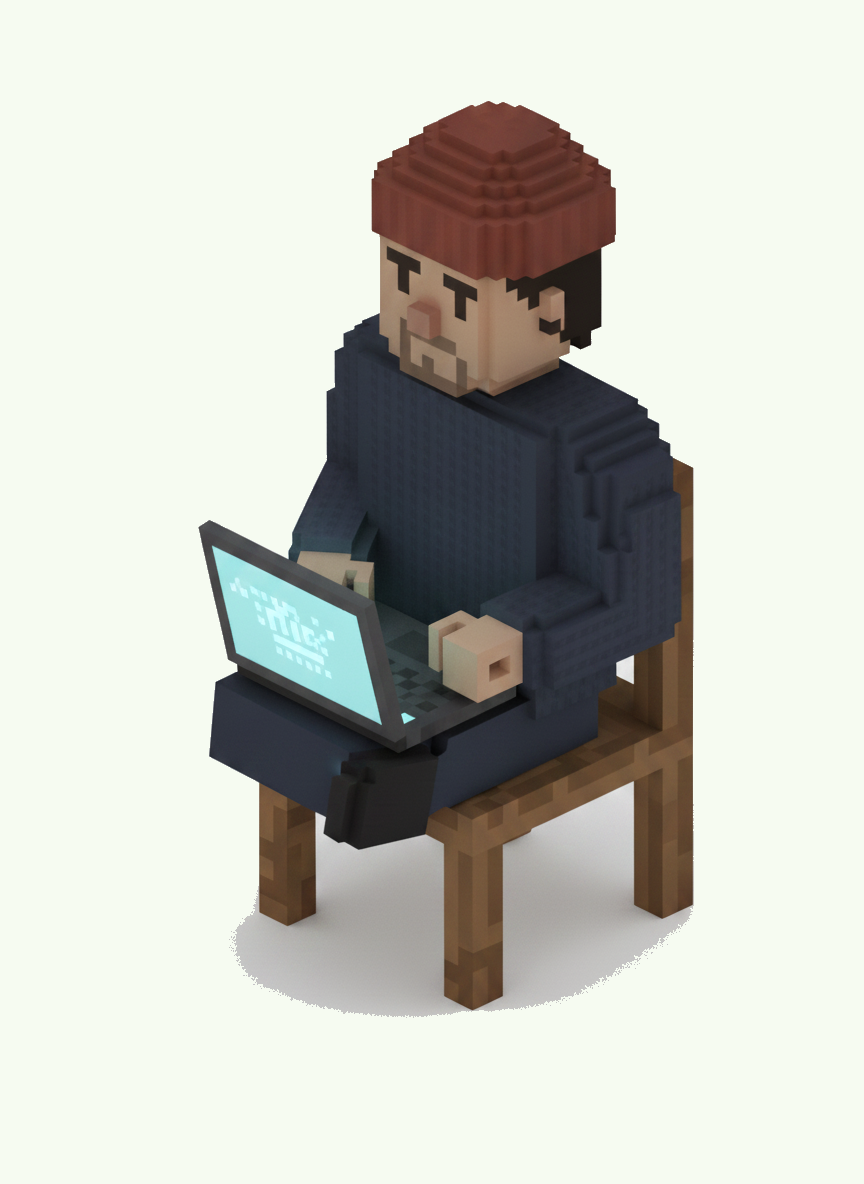
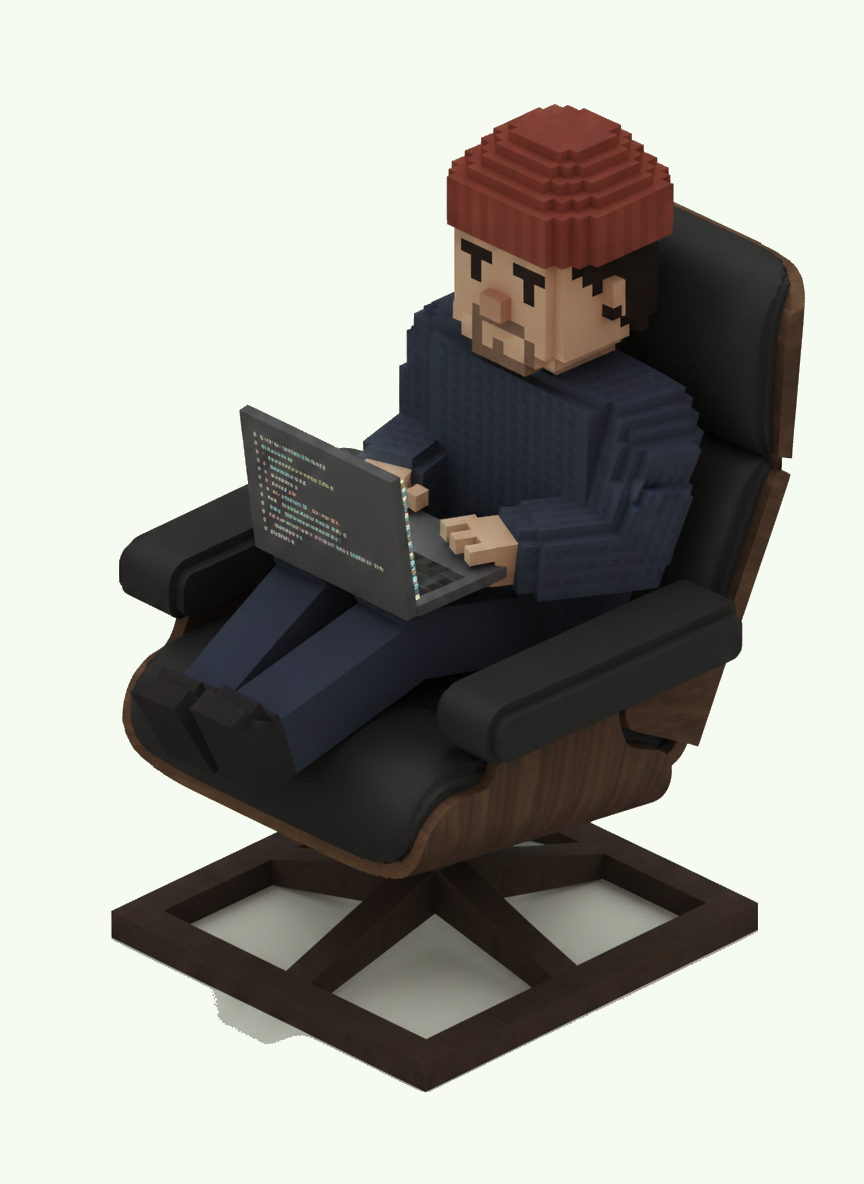
Reading chair: black leather lounge chair, legs crossed; footer merged into Now; live counters

diff --git a/index.html b/index.html
@@ -176,21 +176,22 @@
         <p>
           I'm building something new. It isn't public yet.
         </p>
+        <footer class="site-end" id="contact">
+          <ul class="footer-links">
+            <li><a href="https://github.com/dang-hai">GitHub</a></li>
+            <li><a href="https://scholar.google.de/citations?user=-BpP7hsAAAAJ">Scholar</a></li>
+            <li><a href="https://dblp.org/pid/286/8389.html">dblp</a></li>
+            <li><a href="https://x.com/dnghaiii">X</a></li>
+          </ul>
+          <p class="footer-colophon">
+            <span id="last-updated" data-updated="2026-07-07T01:00:00+02:00">Last updated July 2026</span> · Munich<br>
+            <span id="cogitating">Cogitating since 0 seconds</span>
+          </p>
+        </footer>
       </div>
       <img class="now-avatar" src="assets/img/avatar-typing.png" alt="A voxel figure of Hai sitting cross-legged on a chair, typing on a laptop" width="864" height="1184">
     </div>
   </section>
-
-  <!-- ============ CONTACT ============ -->
-  <footer class="footer" id="contact">
-    <ul class="footer-links">
-      <li><a href="https://github.com/dang-hai">GitHub</a></li>
-      <li><a href="https://scholar.google.de/citations?user=-BpP7hsAAAAJ">Scholar</a></li>
-      <li><a href="https://dblp.org/pid/286/8389.html">dblp</a></li>
-      <li><a href="https://x.com/dnghaiii">X</a></li>
-    </ul>
-    <p class="footer-colophon">Last updated July 2026 · Munich</p>
-  </footer>
 
 </main>
 
@@ -202,6 +203,43 @@
       v.setAttribute('controls', '');
     });
   }
+
+  (function () {
+    var updatedEl = document.getElementById('last-updated');
+    var cogitatingEl = document.getElementById('cogitating');
+    var updatedAt = new Date(updatedEl.getAttribute('data-updated')).getTime();
+    var loadedAt = Date.now();
+
+    function plural(n, word) {
+      return n + ' ' + word + (n === 1 ? '' : 's');
+    }
+
+    function sinceParts(ms) {
+      var s = Math.max(0, Math.floor(ms / 1000));
+      var days = Math.floor(s / 86400);
+      var hours = Math.floor((s % 86400) / 3600);
+      var minutes = Math.floor((s % 3600) / 60);
+      var seconds = s % 60;
+      var parts = [];
+      if (days) parts.push(plural(days, 'day'));
+      if (days || hours) parts.push(plural(hours, 'hour'));
+      parts.push(plural(minutes, 'minute'));
+      parts.push(plural(seconds, 'second'));
+      return parts.join(', ');
+    }
+
+    function tick() {
+      var now = Date.now();
+      updatedEl.textContent = 'Last updated ' + sinceParts(now - updatedAt) + ' ago';
+      var onPage = now - loadedAt;
+      cogitatingEl.textContent = 'Cogitating since ' +
+        (onPage < 60000 ? plural(Math.floor(onPage / 1000), 'second')
+                        : plural(Math.floor(onPage / 60000), 'minute'));
+    }
+
+    tick();
+    setInterval(tick, 1000);
+  })();
 </script>
 
 </body>

diff --git a/style.css b/style.css
@@ -219,7 +219,7 @@ h2 { font-size: clamp(24px, 2.6vw, 32px); }
 
 .now-section {
   background: var(--paper);
-  padding: 10vh var(--pad);
+  padding: 10vh var(--pad) 12vh;
 }
 
 .now-inner {
@@ -243,35 +243,30 @@ h2 { font-size: clamp(24px, 2.6vw, 32px); }
   flex: none;
 }
 
-/* ---------- footer ---------- */
+/* ---------- site end (inside now) ---------- */
 
-.footer {
-  background: var(--teal-deep);
-  color: var(--pale-onDark);
-  padding: 6vh var(--pad);
-}
+.site-end { margin-top: 9vh; }
 
 .footer-links {
   list-style: none;
-  max-width: 680px;
-  margin: 0 auto;
   display: flex;
   gap: clamp(16px, 3vw, 32px);
   flex-wrap: wrap;
   font-family: "Spline Sans Mono", monospace;
   font-size: 13px;
+  color: var(--teal);
 }
 
 .footer-links a { text-decoration: none; }
-.footer-links a:hover { color: var(--white); text-decoration: underline; text-underline-offset: 4px; }
+.footer-links a:hover { text-decoration: underline; text-underline-offset: 4px; }
 
 .footer-colophon {
-  max-width: 680px;
-  margin: 28px auto 0;
+  margin-top: 24px;
   font-family: "Spline Sans Mono", monospace;
   font-size: 11.5px;
   letter-spacing: 0.06em;
-  color: #6C8B84;
+  line-height: 2;
+  color: #8AA294;
 }
 
 /* ---------- responsive ---------- */